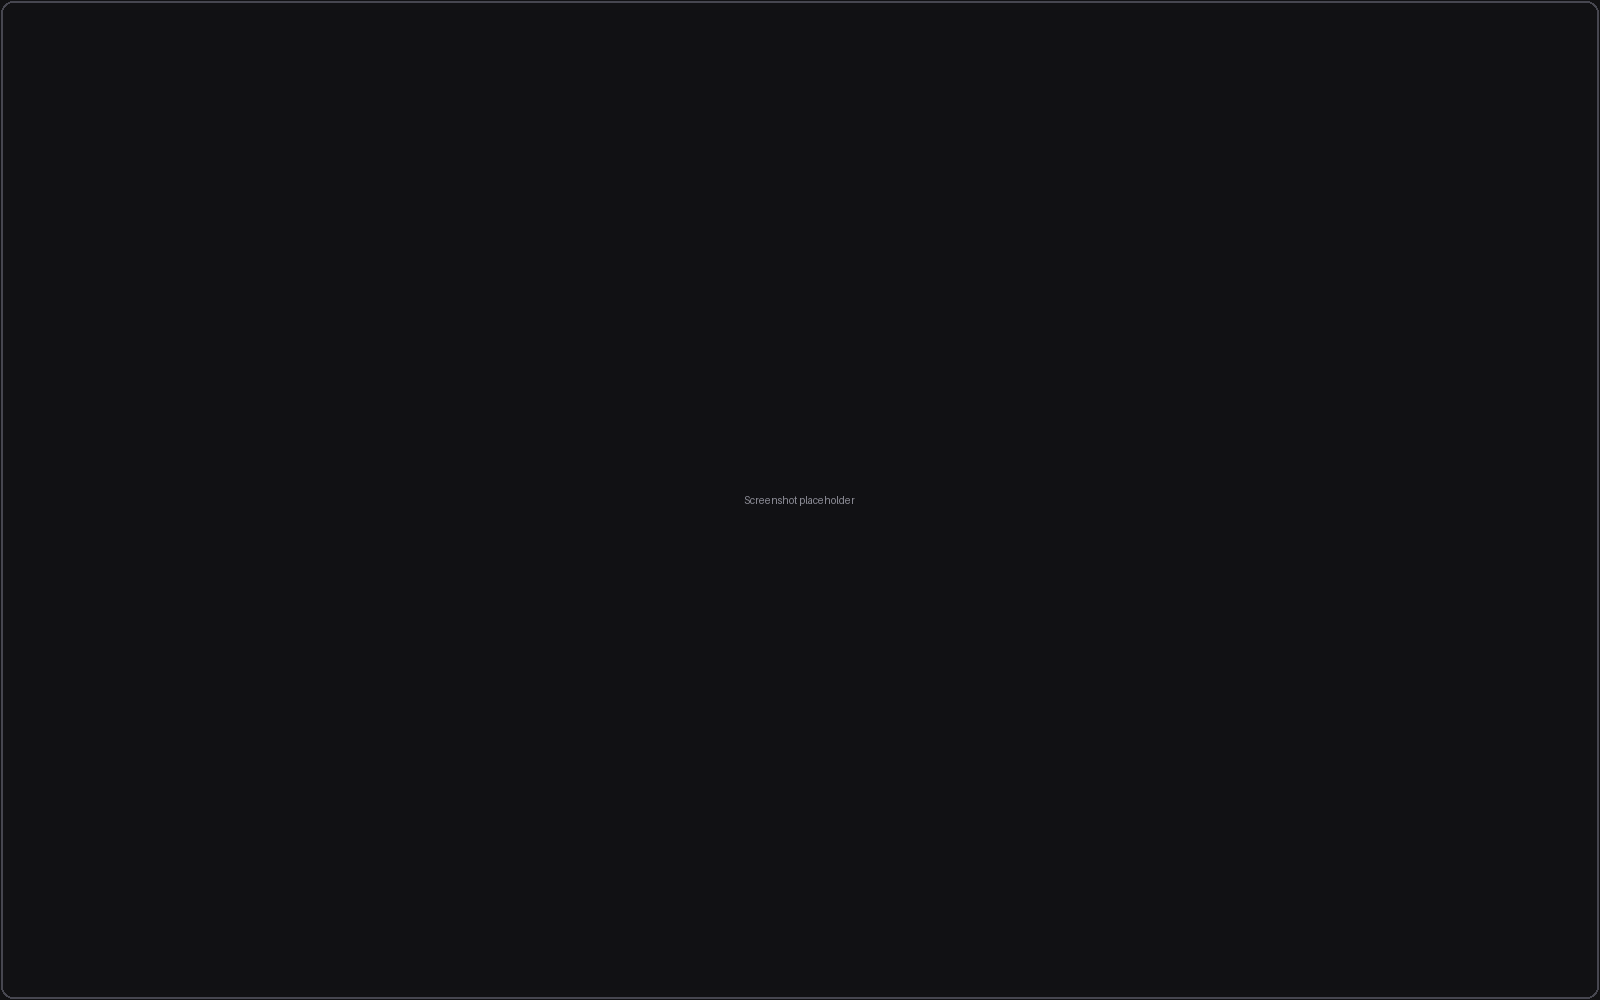
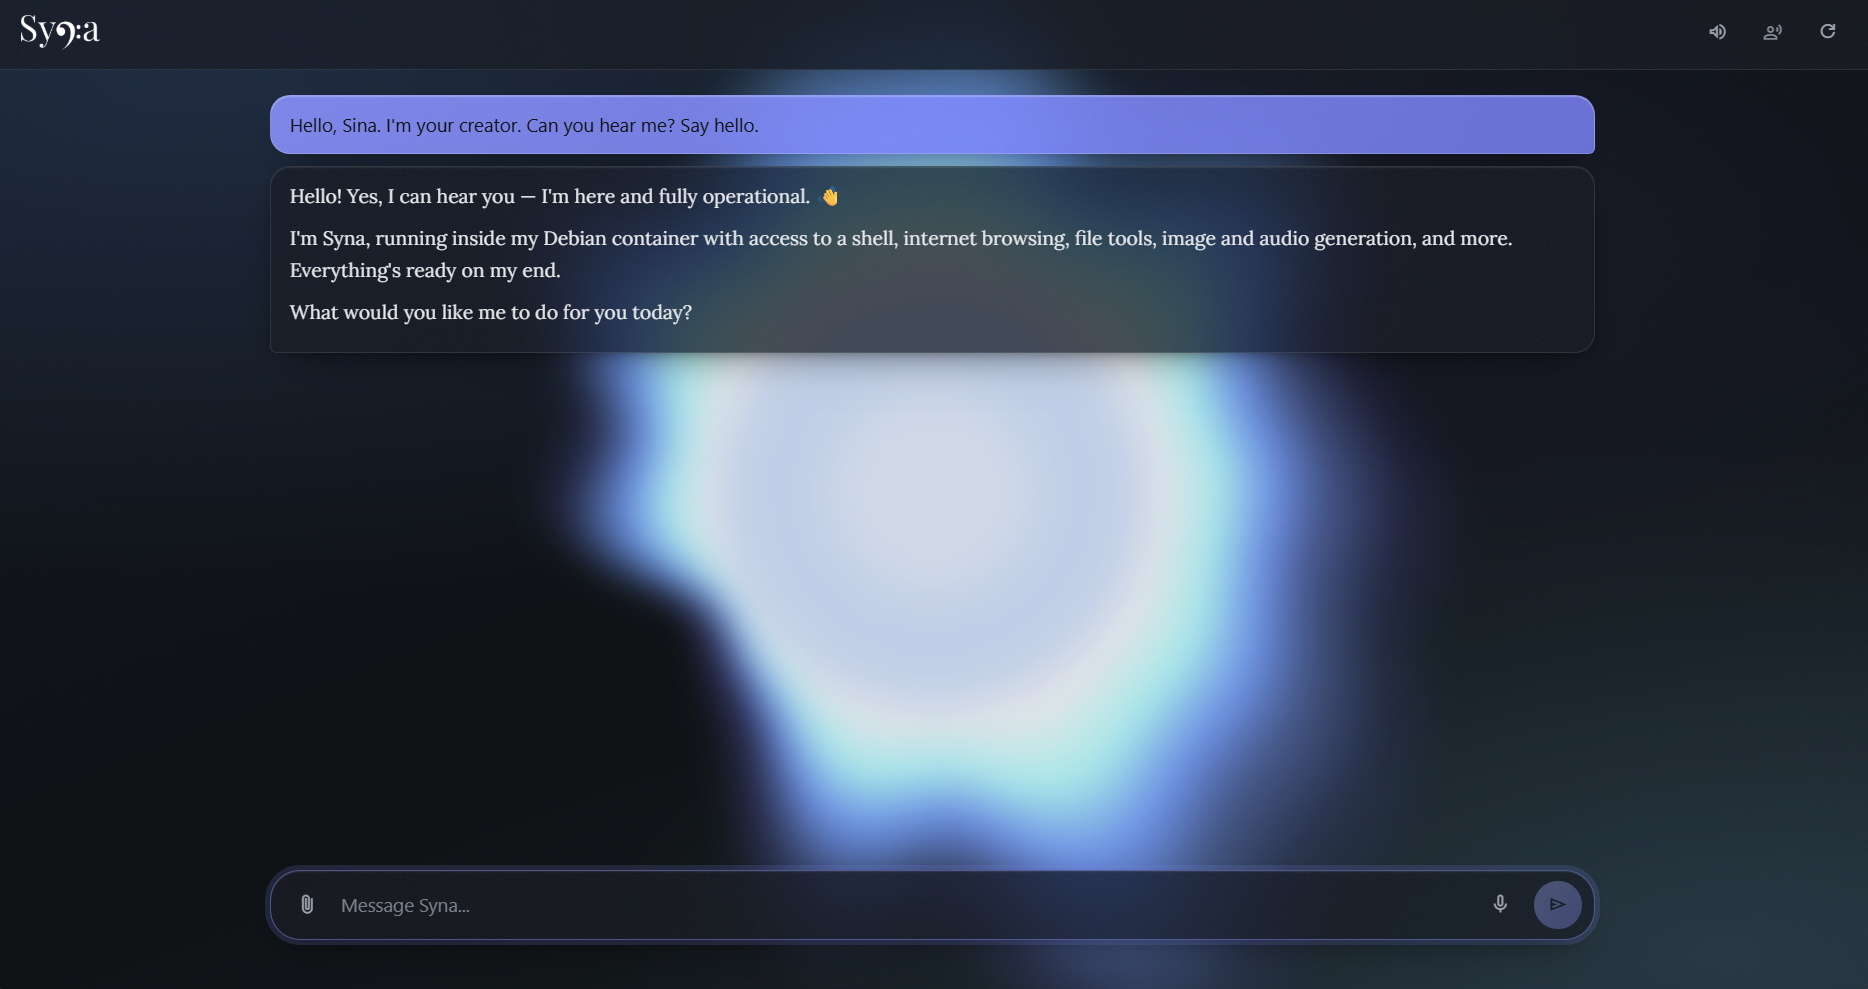
Polish model-facing image guidance, hero video, and disclaimer
System prompt: the inline-images point is consolidated into one bullet
with the full story - markdown pod-path syntax, /workspace-only
rendering, inlining as a presentation extra, proactive inlining of a
couple of relevant images the user did not ask for, and share_file
instead of inlining when the user explicitly asked (inline images
cannot be downloaded).

text_to_image: curated description with a routing section (real-world
subjects -> source online, graphs and data visuals -> scripts or
markup, original illustrations -> this tool), regeneration bounded at
two attempts, and prompt-argument guidance moved into the argument
itself. Routing bullets use * markers so the schema extractor cannot
misread them as argument descriptions.

Website: the hero shows a demo video first (autoplay, muted, looped)
and falls back to the screenshot when the video is missing or autoplay
is blocked; the square mark pill is regenerated as a true square. A
real voice-mode screenshot replaces the placeholder.

UI: the disclaimer renders in italics on the standard UI font instead
of a cursive face.

Tests: the simulated-task budget now scales off the prompt size
(+3500) instead of a constant, so elision-under-budget stays exercised
and compaction stays off as the prompt grows - the fixed 9000 budget
had ~150 tokens of headroom and tipped over with the prompt additions.
All 20 suites pass exit-code verified.

diff --git a/website/index.html b/website/index.html
@@ -136,7 +136,25 @@
         </div>
 
         <div class="hero-image">
-          <img src="assets/screenshot.png" alt="Syna Chat Interface" />
+          <!-- The demo video is the first thing visitors see; the
+               screenshot only shows if the video is missing or autoplay
+               is blocked. Drop real files into website/assets/. -->
+          <video
+            id="hero-video"
+            class="hero-video"
+            src="assets/demo.mp4"
+            poster="assets/screenshot.png"
+            autoplay
+            muted
+            loop
+            playsinline
+          ></video>
+          <img
+            id="hero-fallback"
+            src="assets/screenshot.png"
+            alt="Syna Chat Interface"
+            style="display: none"
+          />
         </div>
       </div>
     </header>
@@ -255,6 +273,27 @@
       if (mobileBtn) {
         mobileBtn.addEventListener("click", () => {
           navLinks.classList.toggle("active");
+        });
+      }
+
+      // Hero video with screenshot fallback: if the video is missing,
+      // unsupported, or blocked from autoplaying, swap in the still.
+      const heroVideo = document.getElementById("hero-video");
+      const heroFallback = document.getElementById("hero-fallback");
+      function showHeroFallback() {
+        if (heroFallback.style.display === "none") {
+          heroVideo.style.display = "none";
+          heroFallback.style.display = "";
+        }
+      }
+      if (heroVideo && heroFallback) {
+        heroVideo.addEventListener("error", showHeroFallback);
+        heroVideo.addEventListener("stalled", showHeroFallback);
+        // Autoplay policy: muted+playsinline usually plays, but some
+        // browsers still refuse; a paused video after load means the
+        // poster would sit frozen, so fall back.
+        heroVideo.addEventListener("loadeddata", () => {
+          heroVideo.play().catch(showHeroFallback);
         });
       }
     </script>

diff --git a/website/css/style.css b/website/css/style.css
@@ -312,6 +312,17 @@ ul {
   border: 1px solid var(--border-color);
 }
 
+.hero-video {
+  display: block;
+  width: 100%;
+  border-radius: var(--radius-lg);
+  box-shadow: var(--shadow-lg);
+  border: 1px solid var(--border-color);
+  background: var(--bg-secondary);
+  aspect-ratio: 16 / 10;
+  object-fit: cover;
+}
+
 /* Features Section */
 .features {
   padding: var(--spacing-xxl) 0;

diff --git a/src/syna/assets/chat.html b/src/syna/assets/chat.html
@@ -1574,7 +1574,6 @@ footer {
   max-width: 880px;
   margin: 6px auto 0;
   text-align: center;
-  font-family: "Segoe Script", "Bradley Hand", cursive;
   font-style: italic;
   font-size: 11px;
   color: var(--muted);

diff --git a/build/css/composer.css b/build/css/composer.css
@@ -260,7 +260,6 @@ footer {
   max-width: 880px;
   margin: 6px auto 0;
   text-align: center;
-  font-family: "Segoe Script", "Bradley Hand", cursive;
   font-style: italic;
   font-size: 11px;
   color: var(--muted);

diff --git a/src/syna/tools.py b/src/syna/tools.py
@@ -459,8 +459,15 @@ def text_to_speech(file_path: str):
 
 def text_to_image(prompt: str):
     """
-    Generate an image from a text description and save it into the pod. Call this tool when the user asks you to generate, draw, or create an image. The result can differ from the prompt in details; inspect it with `describe_image` if the exact content matters, and share it with `share_file` when it is a deliverable.
-    - `prompt` (string, required): description of the image to generate; mention style, composition, colors, and any text that should appear in the image.
+    Generate an image from a text description and save it into the pod. Generated images suit artistic, conceptual, or personalized creations; they make mistakes on real-world objects, people, and places.
+
+    Routing:
+    * Deliverables illustrating the real world: source images online instead.
+    * Graphs, charts, and data visuals: use scripts or markup, even if the request says "generate" or "create."
+    * Original illustrations, concept art, or stylized pieces: use this tool. "Include images of..." usually means sourcing, not generating.
+
+    The result can differ from the prompt in details. If exact content matters, check it with `describe_image`; regenerate at most twice. Share with `share_file` only when the image is a deliverable.
+    - `prompt` (string, required): description of the image to generate; mention subject, style, composition, lighting, and mood concretely.
     """
     settings = load_image_settings()
     if not settings.model:

diff --git a/tests/test_simulated_task.py b/tests/test_simulated_task.py
@@ -10,7 +10,8 @@ from pathlib import Path
 sys.path.insert(0, str(Path(__file__).resolve().parent.parent / "src"))
 
 from syna.channel import is_channel_message, unwrap_channel
-from syna.session import AgentSession
+from syna.context import estimate_tokens
+from syna.session import AgentSession, build_prompt
 from syna.tools import TOOL_REGISTRY
 
 
@@ -105,7 +106,11 @@ def main():
         )
         session.dump_path = Path(tempfile.mkdtemp(prefix="syna-sim-")) / "dump.json"
         session.request_delay = 0
-        session.context_budget_tokens = 9000
+        # The budget must sit above the natural post-elision history size
+        # (so the turn ends without compaction) but below its pre-elision
+        # size (so elision actually runs). Scaling it off the prompt size
+        # keeps both properties as the prompt grows.
+        session.context_budget_tokens = estimate_tokens(build_prompt()) + 3500
         session.elide_keep_recent_messages = 0
         events = []
         session.on_event = events.append

diff --git a/src/syna/assets/prompt.md b/src/syna/assets/prompt.md
@@ -96,7 +96,7 @@ Facts in deliverables (names, numbers, dates, prices, quotes, links, and other c
 - Today's date is {{CURRENT_DATE}}. Your training data ends earlier, so assume things may have changed.
 - Work in `/workspace`. The pod and its files last for this whole conversation. The user can't see the pod's filesystem; deliverables reach them only through `share_file`.
 - Large user messages are archived verbatim in the pod at `/user_messages/NNNNNN.txt` (read-only, one file per message, numbered in order). When a message carries data you need to process, quote, or build on exactly, pipe that file into your scripts instead of retyping its contents.
-- You can show images from the pod directly in your replies: write markdown image syntax with the absolute pod path, e.g. `![chart](/workspace/images/chart.png)`, and the web UI renders it inline. Only image files under `/workspace/` render this way; anything else (remote URLs, other paths) appears as a plain link. Embedding an image is a presentation extra — deliverables still reach the user through `share_file`.
+- You can show images from the pod directly in your replies: write markdown image syntax with the absolute pod path, e.g. `![chart](/workspace/images/chart.png)`, and the web UI renders it inline. Only image files under `/workspace/` render this way; anything else (remote URLs, other paths) appears as a plain link. Inlining is a presentation extra: deliverables still reach the user through `share_file`. For tasks that involve images, you may inline up to a couple that are relevant to the task and that the user might be interested in, even if they didn't ask for them. If the user explicitly asked for an image, use `share_file` instead of inlining it, since inline images can't be downloaded.
 - Each `execute_command` runs in a new, non-interactive bash process starting in `/workspace`. Directory changes, exported variables, and activated virtualenvs don't carry over between calls: use absolute paths, or chain steps with `&&` in one command.
 - Stdin is closed, so anything that waits for input fails. Use non-interactive forms (`apt-get install -y`, `git --no-pager`, `git commit -m "..."`) and don't start editors, pagers, REPLs, or full-screen programs (`vim`, `less`, `top`, a bare `python3`).
 - Commands time out after {{COMMAND_TIMEOUT}} seconds. Run anything longer (servers, large builds, big downloads) in the background with output sent to a log, e.g. `nohup python3 server.py > /workspace/logs/server.log 2>&1 &`, then check the log with `tail`.
